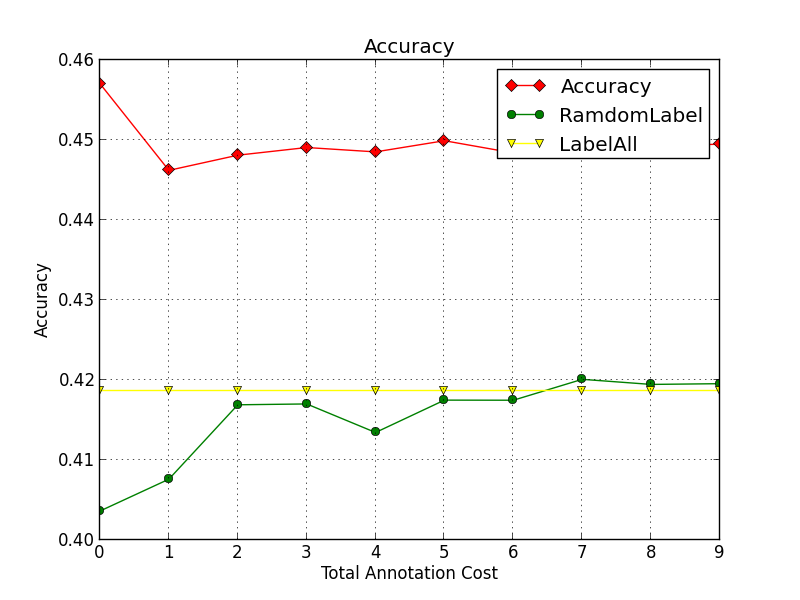
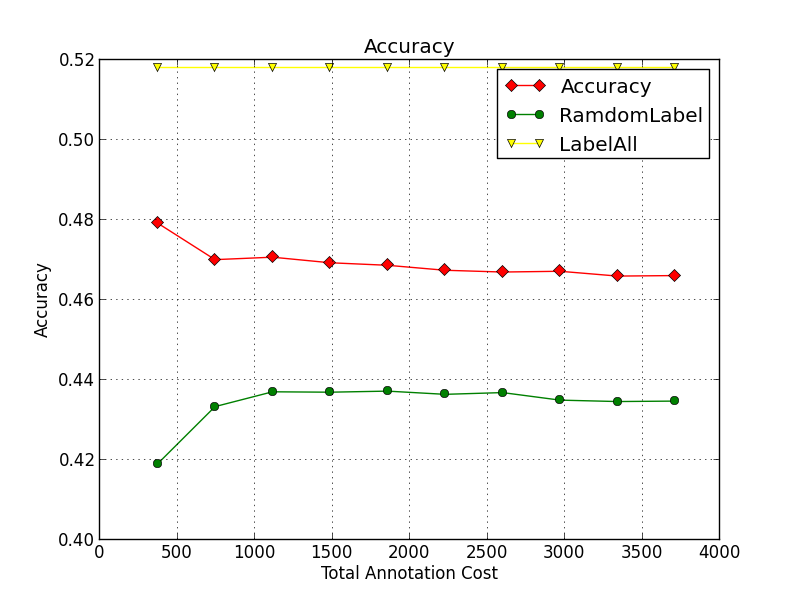
Fix bugs in experiments....

diff --git a/src/edu/cmu/al/experiment/BasicExperiment.java b/src/edu/cmu/al/experiment/BasicExperiment.java
@@ -1,6 +1,8 @@
 package edu.cmu.al.experiment;
 
+import java.util.ArrayList;
 import java.util.HashSet;
+import java.util.List;
 
 import edu.cmu.al.main.Preprocess;
 import edu.cmu.al.ml.Classifier;
@@ -18,9 +20,15 @@ public class BasicExperiment implements Experiment {
 
   double[] accuracies;
 
+  double[] accuraciesCost;
+
   double[] testSamplingAccuracies;
 
+  double[] testSamplingAccuraciesCost;
+
   double[] testModelAccuracies;
+
+  double[] testModelAccuraciesCost;
 
   String DIR = Util.DIR; // "output/";
 
@@ -33,6 +41,8 @@ public class BasicExperiment implements Experiment {
   Evaluator evaluator;
 
   double ratio = 0;
+  
+  List<String> allProductIds = new ArrayList<String>();
 
   public BasicExperiment(int round, double ratio) {
     this.round = round;
@@ -40,6 +50,9 @@ public class BasicExperiment implements Experiment {
     this.accuracies = new double[round];
     this.testSamplingAccuracies = new double[round];
     this.testModelAccuracies = new double[round];
+    this.accuraciesCost = new double[round];
+    this.testSamplingAccuraciesCost = new double[round];
+    this.testModelAccuraciesCost = new double[round];
     this.evaluator = new Evaluator();
   }
 
@@ -57,6 +70,8 @@ public class BasicExperiment implements Experiment {
             + "Unlabeled: " + labeling.getUnlabeledNumber());
 
     HashSet<String> productIds = sampling.sampling(numberOfInstanceToLabel);
+    allProductIds.addAll(productIds);
+    
     labeling.labelProductId(productIds);
 
     classifier.train();
@@ -65,6 +80,12 @@ public class BasicExperiment implements Experiment {
     evaluator.clear();
     evaluator.evaluateClassification();
     accuracies[i] = evaluator.computeAccuracy();
+
+    if (i == 0) {
+      accuraciesCost[i] = numberOfInstanceToLabel;
+    } else {
+      accuraciesCost[i] = accuraciesCost[i - 1] + numberOfInstanceToLabel;
+    }
   }
 
   @Override
@@ -89,6 +110,12 @@ public class BasicExperiment implements Experiment {
     evaluator.clear();
     evaluator.evaluateClassification();
     testSamplingAccuracies[i] = evaluator.computeAccuracy();
+    
+    if (i == 0) {
+      testSamplingAccuraciesCost[i] = numberOfInstanceToLabel;
+    } else {
+      testSamplingAccuraciesCost[i] = testSamplingAccuraciesCost[i - 1] + numberOfInstanceToLabel;
+    }
   }
 
   @Override
@@ -102,13 +129,13 @@ public class BasicExperiment implements Experiment {
     // labeling.labelAll();
 
     // /////////////////////////////////////////////////////////
-    int numberOfInstanceToLabel = (int) Math.floor(labeling.getAllNumber() * ratio);
+    int numberOfInstanceToLabel = allProductIds.size();
 
     // print
     System.out.println("ToLabel: " + numberOfInstanceToLabel + "\t" + "Unlabeled: "
             + labeling.getUnlabeledNumber());
 
-    labeling.randomLabelByNum(numberOfInstanceToLabel);
+    labeling.labelProductId(allProductIds);
     // //////////////////////////////////////////////////////////////
 
     classifier.train();
@@ -118,6 +145,7 @@ public class BasicExperiment implements Experiment {
     evaluator.evaluateClassification();
     for (int i = 0; i < this.round; i++) {
       testModelAccuracies[i] = evaluator.computeAccuracy();
+      testModelAccuraciesCost[i] = numberOfInstanceToLabel * (i + 1) / round;
     }
   }
 
@@ -134,10 +162,10 @@ public class BasicExperiment implements Experiment {
   }
 
   @Override
-  public void storeInFile(String outputFileName, double[] array) {
+  public void storeInFile(String outputFileName, double[] cost, double[] accuracy) {
     Printer printer = new Printer(outputFileName);
     for (int i = 0; i < round; i++) {
-      printer.println(i + " " + array[i]);
+      printer.println(cost[i] + " " + accuracy[i]);
     }
     printer.close();
   }
@@ -145,20 +173,32 @@ public class BasicExperiment implements Experiment {
   public double[] getTestSamplingAccuracies() {
     return testSamplingAccuracies;
   }
+  
+  public double[] getTestSamplingAccuraciesCost() {
+    return testSamplingAccuraciesCost;
+  }
 
   public double[] getTestModelAccuracies() {
     return testModelAccuracies;
+  }
+  
+  public double[] getTestModelAccuraciesCost() {
+    return testModelAccuraciesCost;
   }
 
   public double[] getAccuracies() {
     return accuracies;
   }
+  
+  public double[] getAccuraciesCost() {
+    return accuraciesCost;
+  }
 
   @Override
   public void storeInFile() {
-    storeInFile(DIR + accuracy, getAccuracies());
-    storeInFile(DIR + testModelAccuracy, getTestModelAccuracies());
-    storeInFile(DIR + testsamplingAccuracy, getTestSamplingAccuracies());
+    storeInFile(DIR + accuracy, getAccuraciesCost(), getAccuracies());
+    storeInFile(DIR + testModelAccuracy, getTestModelAccuraciesCost(), getTestModelAccuracies());
+    storeInFile(DIR + testsamplingAccuracy, getTestSamplingAccuraciesCost(), getTestSamplingAccuracies());
 
   }
 

diff --git a/src/edu/cmu/al/experiment/Experiment.java b/src/edu/cmu/al/experiment/Experiment.java
@@ -22,7 +22,7 @@ public interface Experiment {
 
   public void plotResult(String outputFileName, String title, String... files);
 
-  public void storeInFile(String outputFileName, double[] array);
+  public void storeInFile(String outputFileName, double[] cost, double[] accuracy);
 
   public void storeInFile();
 
